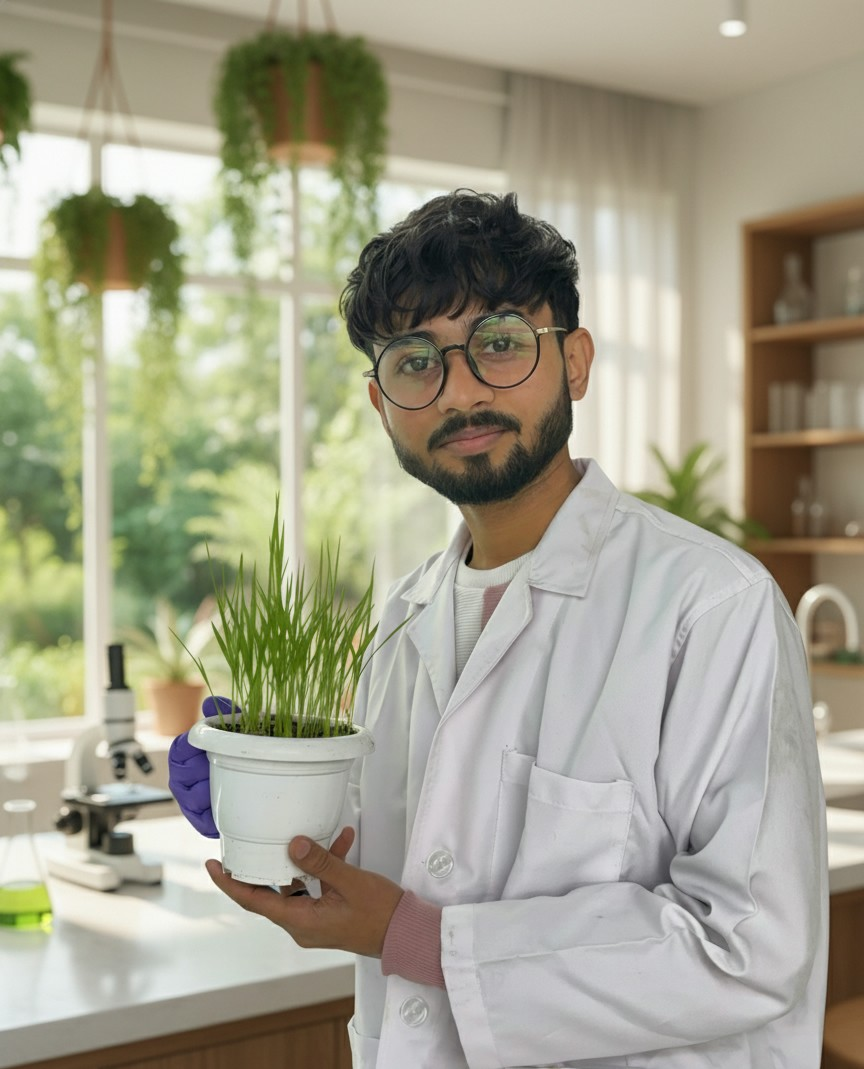
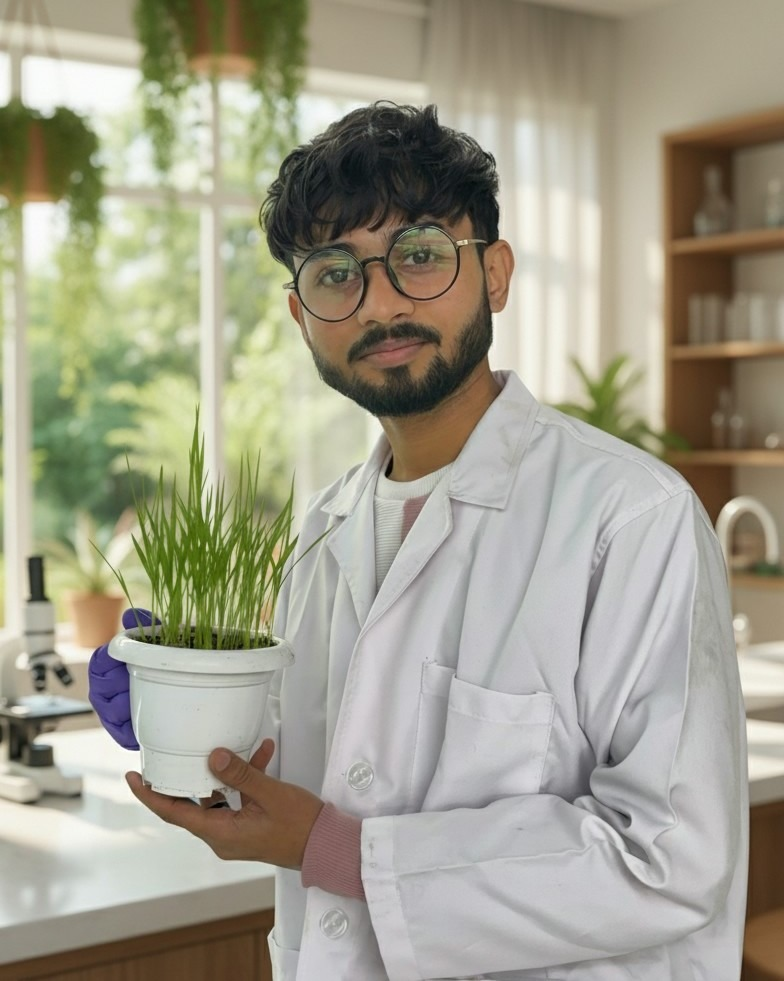
Profile crossfade, larger photo, mobile timeline fix, cisgs1 re-upload
- cisgs1: re-uploaded from updated source file (C:/Website/cisgs1.jpg)
- Profile photo: enlarged 300x360 -> 360x440px; mobile max-width 300->360px
- Profile hover: removed pixel effect; profile1 fades to profile2 on hover
  via CSS opacity transition, returns to profile1 on mouseleave
- Mobile timeline: tl-track::before left 20->22px (dot column centre);
  tl-line-fill JS uses tRect.left+22 on mobile (<=768px) instead of
  track centre, so scroll fill bar runs over the dots not screen centre
- profile1.jpg + profile2.jpg added to assets

diff --git a/styles/main.css b/styles/main.css
@@ -587,8 +587,8 @@ section { padding: var(--sp-3xl) 0; }
 
 .about-photo-wrap {
   position     : relative;
-  width        : 300px;
-  height       : 360px;
+  width        : 360px;
+  height       : 440px;
   border-radius: var(--r-lg);
   overflow     : hidden;
   border       : 1px solid var(--border);
@@ -597,14 +597,29 @@ section { padding: var(--sp-3xl) 0; }
 }
 
 .about-photo {
+  position        : absolute;
+  inset           : 0;
   width           : 100%;
   height          : 100%;
   object-fit      : cover;
   object-position : center top;
-  transition      : transform .5s var(--ease-out);
+  transition      : opacity .55s var(--ease-out), transform .55s var(--ease-out);
 }
 
-.about-photo-wrap:hover .about-photo { transform: scale(1.04); }
+/* profile2 sits on top, hidden until hovered */
+.about-photo--alt {
+  opacity : 0;
+  z-index : 1;
+}
+.about-photo--alt.visible {
+  opacity  : 1;
+  transform: scale(1.03);
+}
+
+/* Subtle scale on primary when alt is not shown */
+.about-photo-wrap:hover .about-photo:not(.about-photo--alt) {
+  transform: scale(1.03);
+}
 
 .about-photo-fallback {
   display        : none;
@@ -1181,7 +1196,11 @@ section { padding: var(--sp-3xl) 0; }
 
 /* Mobile — single column, dots on left edge */
 @media (max-width: 768px) {
-  .tl-track::before { left: 20px; transform: none; }
+  /* Line runs through dot centre (col-1 is 44px, centre = 22px) */
+  .tl-track::before {
+    left     : 22px;
+    transform: none;
+  }
 
   .tl-item {
     grid-template-columns: 44px 1fr;
@@ -1189,14 +1208,31 @@ section { padding: var(--sp-3xl) 0; }
     margin-bottom        : var(--sp-xl);
   }
 
-  .tl-dot  { grid-column: 1; grid-row: 1; margin-top: 0; }
-  .tl-year { grid-column: 1; grid-row: 2; writing-mode: vertical-rl;
-             transform: rotate(180deg); font-size: .6rem; margin-top: 4px; }
+  /* Dot centred inside its 44px column */
+  .tl-dot {
+    grid-column : 1;
+    grid-row    : 1;
+    margin-top  : 0;
+    justify-self: center;
+  }
+
+  /* Year below dot, centred */
+  .tl-year {
+    grid-column : 1;
+    grid-row    : 2;
+    writing-mode: vertical-rl;
+    transform   : rotate(180deg);
+    font-size   : .6rem;
+    margin-top  : 4px;
+    justify-self: center;
+  }
 
   .tl-item:nth-child(odd)  > .tl-card,
   .tl-item:nth-child(even) > .tl-card {
-    grid-column: 2; grid-row: 1 / span 3;
-    margin-left: 1rem; margin-right: 0;
+    grid-column: 2;
+    grid-row   : 1 / span 3;
+    margin-left: 1rem;
+    margin-right: 0;
   }
 
   .tl-item:nth-child(odd)  > .tl-card { transform: translateX(20px); }
@@ -1527,7 +1563,7 @@ section { padding: var(--sp-3xl) 0; }
 }
 
 @media (max-width: 480px) {
-  .about-photo-wrap { width: 100%; max-width: 300px; }
+  .about-photo-wrap { width: 100%; max-width: 360px; }
   .orcid-block      { gap: var(--sp-md); }
 
 }

diff --git a/scripts/main.js b/scripts/main.js
@@ -242,47 +242,15 @@
     });
   })();
 
-  /* ── 10. Pixel-portrait hover effect ── */
-  const wrap  = document.getElementById('profilePhotoWrap');
-  const photo = document.getElementById('profilePhoto');
+  /* ── 10. Profile photo crossfade (profile1 → profile2 on hover) ── */
+  const wrap    = document.getElementById('profilePhotoWrap');
+  const photo2  = document.getElementById('profilePhoto2');
 
-  if (wrap && photo) {
-    let canvas = null;
-    let ready  = false;
-
-    function buildPixel() {
-      if (ready || photo.naturalWidth === 0) return;
-      const BLOCK = 8;
-      const w = photo.naturalWidth;
-      const h = photo.naturalHeight;
-
-      const full = document.createElement('canvas');
-      full.width  = w; full.height = h;
-      full.getContext('2d').drawImage(photo, 0, 0, w, h);
-
-      const small = document.createElement('canvas');
-      small.width  = Math.floor(w / BLOCK);
-      small.height = Math.floor(h / BLOCK);
-      const sc = small.getContext('2d');
-      sc.imageSmoothingEnabled = false;
-      sc.drawImage(full, 0, 0, small.width, small.height);
-
-      canvas = document.createElement('canvas');
-      canvas.width  = w; canvas.height = h;
-      canvas.style.cssText = `
-        position:absolute;inset:0;width:100%;height:100%;
-        object-fit:cover;opacity:0;
-        transition:opacity .28s ease;border-radius:inherit;`;
-      const ctx = canvas.getContext('2d');
-      ctx.imageSmoothingEnabled = false;
-      ctx.drawImage(small, 0, 0, w, h);
-      wrap.appendChild(canvas);
-      ready = true;
-    }
-
-    photo.complete ? buildPixel() : photo.addEventListener('load', buildPixel);
-    wrap.addEventListener('mouseenter', () => { if (canvas) canvas.style.opacity = '1'; });
-    wrap.addEventListener('mouseleave', () => { if (canvas) canvas.style.opacity = '0'; });
+  if (wrap && photo2) {
+    // Preload profile2
+    photo2.loading = 'eager';
+    wrap.addEventListener('mouseenter', () => photo2.classList.add('visible'));
+    wrap.addEventListener('mouseleave', () => photo2.classList.remove('visible'));
   }
 
 })();

diff --git a/scripts/animations.js b/scripts/animations.js
@@ -210,9 +210,13 @@
     if (!track || !fill || !section) return;
 
     function update() {
-      const tRect = track.getBoundingClientRect();
-      const sRect = section.getBoundingClientRect();
-      const centreX = tRect.left + tRect.width / 2 - 1;
+      const tRect  = track.getBoundingClientRect();
+      const sRect  = section.getBoundingClientRect();
+      const mobile = window.innerWidth <= 768;
+      // Desktop: centre of track. Mobile: centre of the 44px dot column (22px from track left)
+      const centreX = mobile
+        ? tRect.left + 22 - 1
+        : tRect.left + tRect.width / 2 - 1;
 
       // Show only when timeline section is in view
       const inView = sRect.top < window.innerHeight && sRect.bottom > 0;

diff --git a/index.html b/index.html
@@ -134,6 +134,13 @@
               id="profilePhoto"
               onerror="this.style.display='none';document.getElementById('profileFallback').style.display='flex';"
             />
+            <img
+              src="assets/images/profile2.jpg"
+              alt="Ayushman Mallick"
+              class="about-photo about-photo--alt"
+              id="profilePhoto2"
+              loading="lazy"
+            />
             <div class="about-photo-fallback" id="profileFallback">
               <span>AM</span>
             </div>
